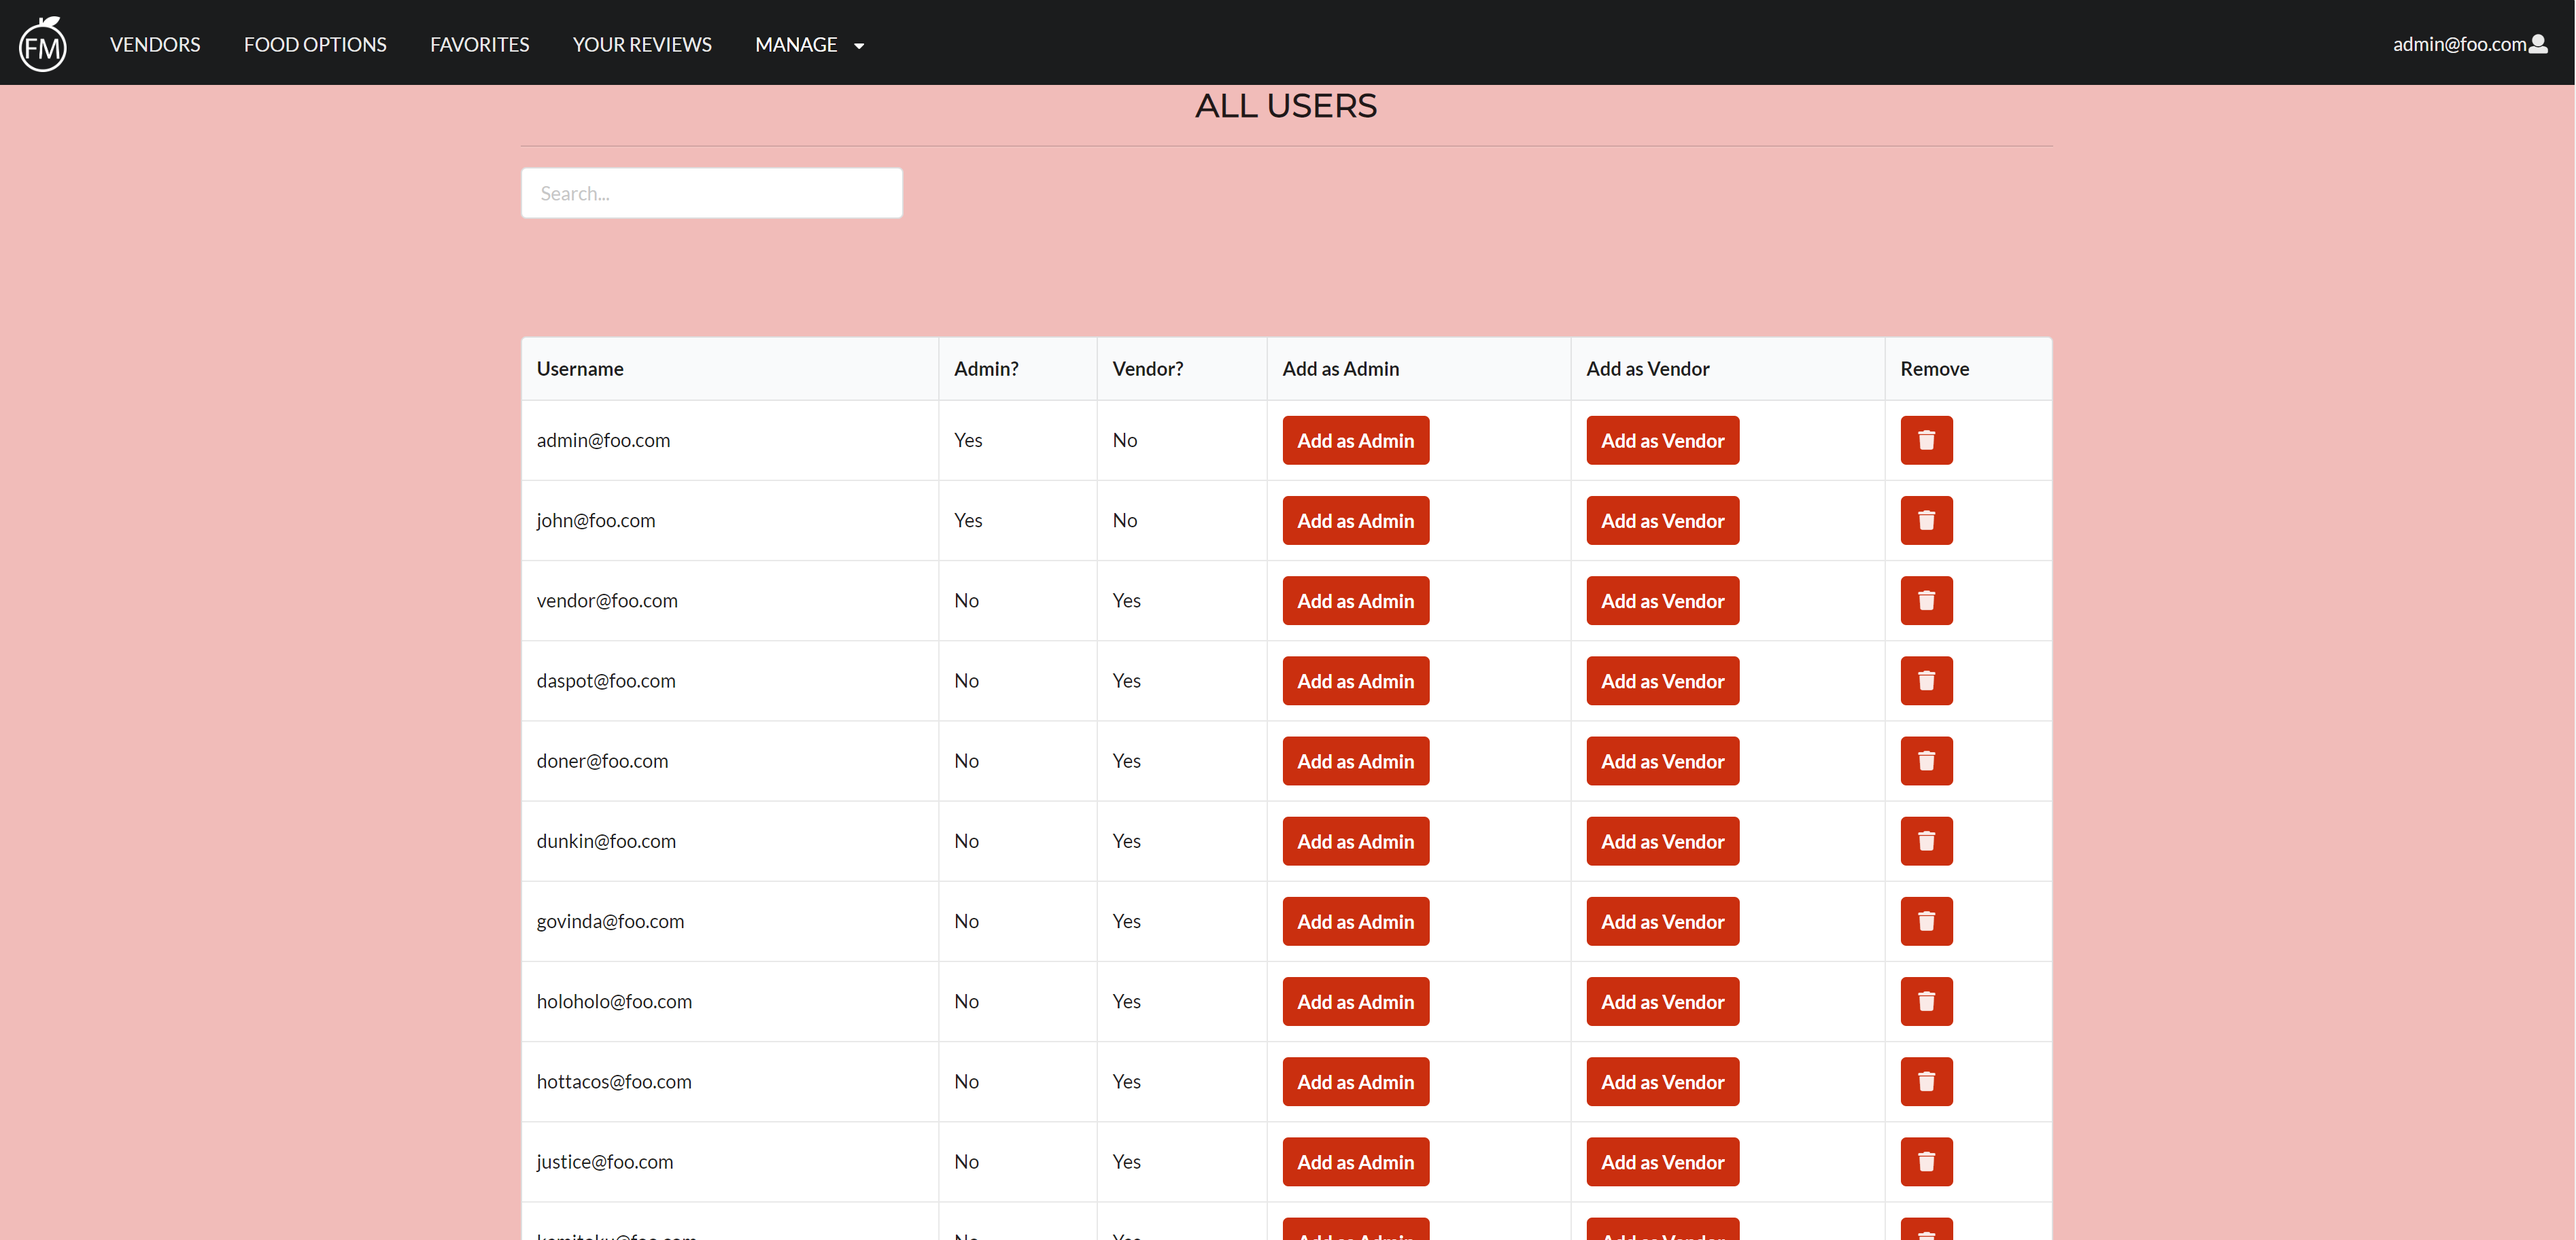
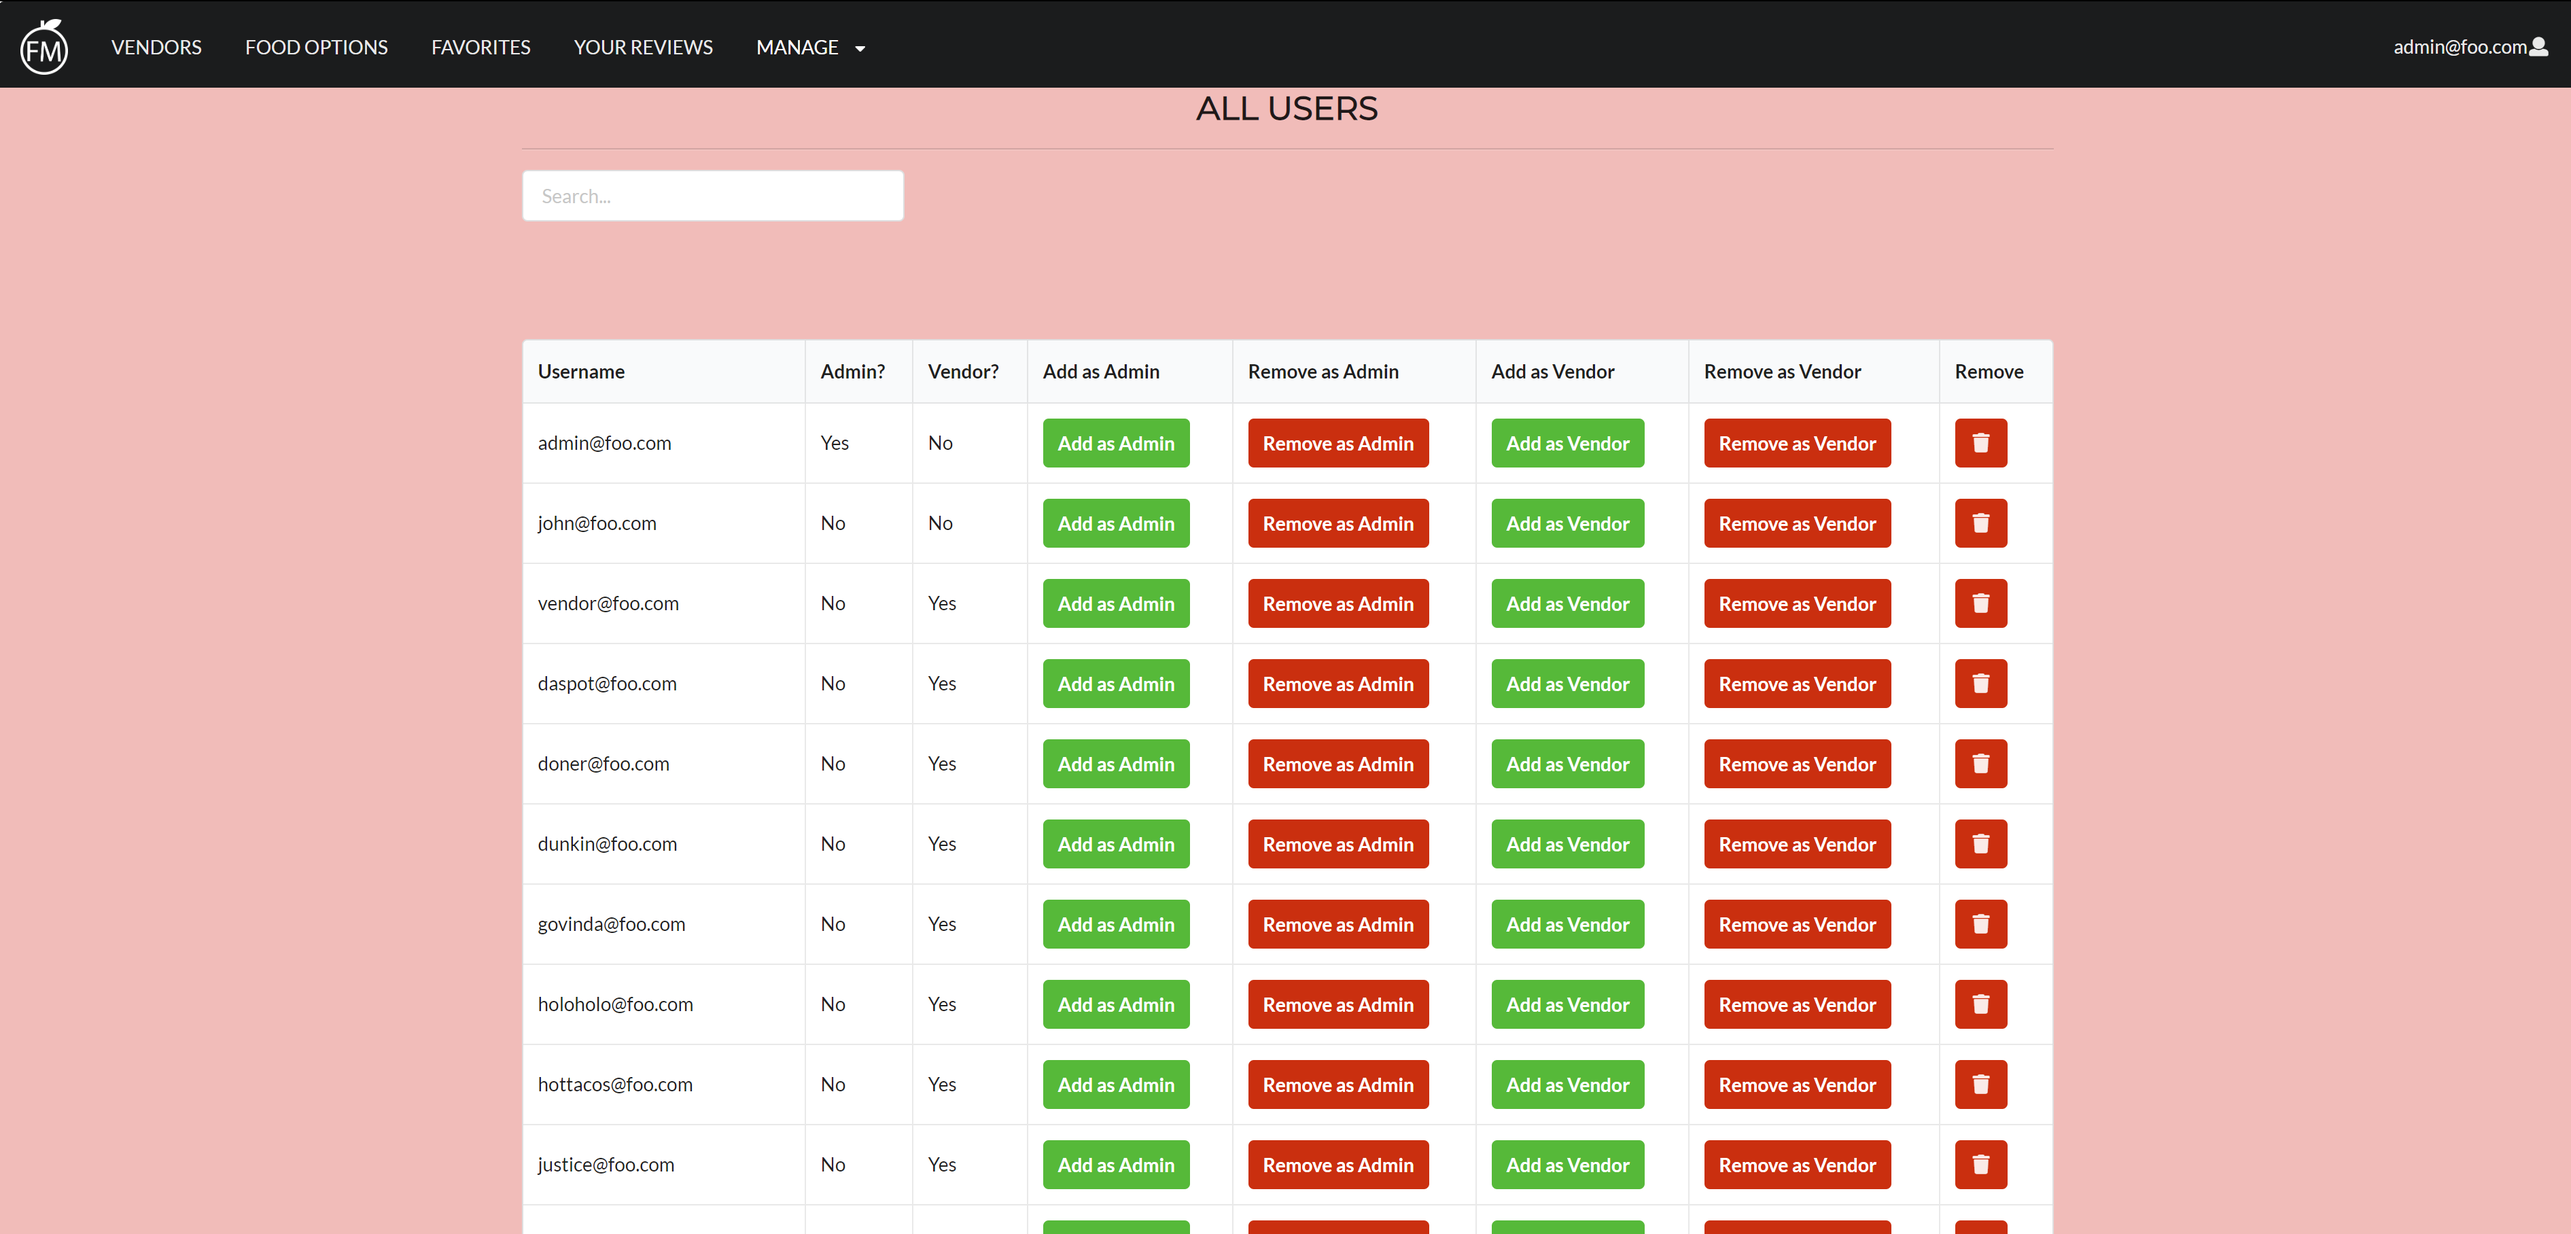
Updated images and description for Manage Users page

diff --git a/index.md b/index.md
@@ -122,16 +122,16 @@ Once confirmed, they will receive an alert letting them know their review has be
 
 See Your Reviews page <a href="http://uhmfoodmood.meteorapp.com/#/reviews">here</a>.
 
-#### Vendor Listing Page:
+#### Vendors - Your Listings Page:
 ![vendor](images/VendorListings.PNG)
 
-As a vendor, you can add new listings and edit or delete your existing listings. Your listings will all be shown in the Vendor Listings page. To add a new listing, you will need to click on the "Add Menu Item" button at the top right of the page. To edit an existing listing, click on the Edit link in the row containing the listing. To delete a listing, click the trash can button in the row containing the listing. You also have the same search functionality for your own listings, using the search bar at the top left corner.
+As a vendor, you can add new listings and edit or delete your existing listings. Your listings will all be shown in Your Listings page. To add a new listing, you will need to click on the "Add Menu Item" button at the top right of the page. To edit an existing listing, click on the Edit link in the row containing the listing. To delete a listing, click the trash can button in the row containing the listing. You also have the same search functionality for your own listings, using the search bar at the top left corner.
 
-See the Vendor Listings page <a href = "http://uhmfoodmood.meteorapp.com/#/vendor">here</a>
+See Your Listings page <a href = "http://uhmfoodmood.meteorapp.com/#/vendor">here</a>
 
 #### Vendor/Admin Add Listing Page:
 
-![add listing](images/AddVendorListing.PNG)
+![add listing](images/AddVendor.PNG)
 
 As an admin/vendor, you can utilize the Add Listing Page to add new food listings. You will need to enter the name of the food, the URL to the image of the food, the name of the vendor, the price, whether the food is vegan, the style of the food, the date when the food will be available from, and the times when students can purchase the food. Click the submit button and it will create a new listing with the provided information. 
 ![added](images/AddVendorListingSuccess.PNG)
@@ -169,7 +169,7 @@ See the Manage Favorites Page <a href = "http://uhmfoodmood.meteorapp.com/#/list
 
 ![users](images/AdminUsers.PNG)
 
-Additionally, Admins can also view and manage all users in the Manage Users page. Admins can search through users using the search bar at the top left corner (search by name). Admins can also add users as admins or vendors by clicking on the red "Add as Admin" button or the red "Add as Vendor" button. They can also remove users by clicking on the red trash can icon in the Remove column.
+Additionally, Admins can also view and manage all users in the Manage Users page. Admins can search through users using the search bar at the top left corner (search by name). Admins can also add users as admins or vendors by clicking on the green "Add as Admin" button or the green "Add as Vendor" button. They can also remove users as admins or vendors by clicking on the red "Remove as Admin" button or the red "Remove as Vendor" button. They can also remove users by clicking on the red trash can icon in the Remove column.
 
 See the Manage Users Page <a href = "http://uhmfoodmood.meteorapp.com/#/users">here</a>.
 
@@ -236,10 +236,6 @@ Next, download <a href="https://github.com/uhm-food-mood/uhm-food-mood">UHM Food
 Then, cd into the app/ directory of your local copy of the repo and install third party libraries with:
 ```
 meteor npm install
-```
-You will also need to install Moment using:
-```
-npm install moment
 ```
 Once you've installed the libraries, run the application with the following command:
 ```
@@ -402,7 +398,7 @@ I20191212-20:26:32.444(-10)?  Adding: Vendor listing: Jamba Juice for jamba@foo.
    Type Control-C twice to stop.
 ```
 #### Viewing UHM Food Mood
-If the app was installed correctly, you will be able to view it at http://localhost:3000/. You can login using the credentials in <a href="https://github.com/uhm-food-mood/uhm-food-mood/blob/master/config/settings.development.json">settings.development.json</a>.
+If the app was installed correctly, you will be able to view it at http://localhost:3000/. You can login using the credentials in <a href="https://github.com/uhm-food-mood/uhm-food-mood/blob/master/app/private/defaultAccounts.json">defaultAccounts.json</a>.
 ### Development History
 #### Milestone 1
 In Milestone 1, we created the Landing page and four mockup pages - the User Favorites page, the Vendor Listings page, the Vendor/Admin Add Listing page, and the Admin Listings page. We added a small amount of functionality to the Admin Listings page, as admins are able to remove listings from the Admin Listings page. We also set up the schema for and MongoDB collection of food options (MenuItems Collection), so all of the information on the cards that appear on our app is pulled from our database.
